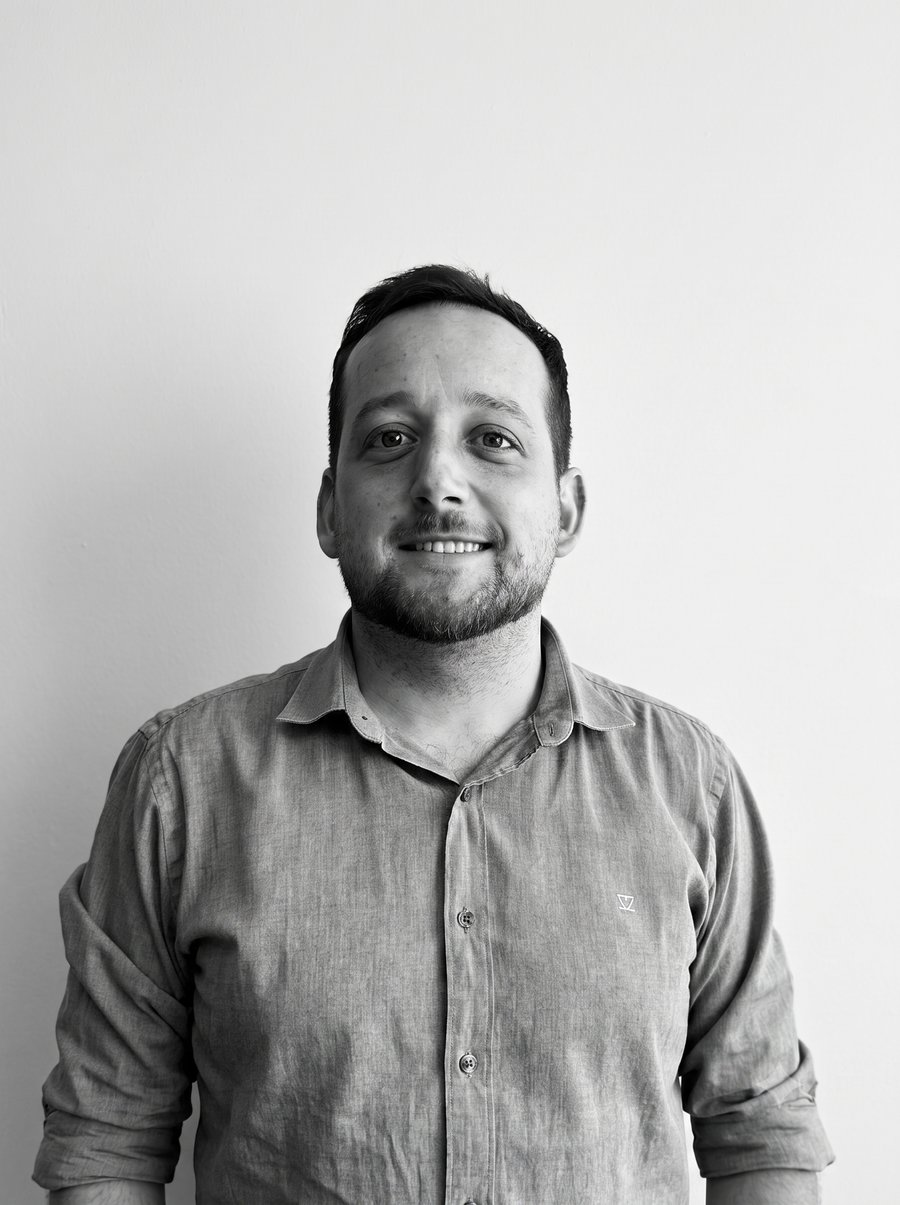
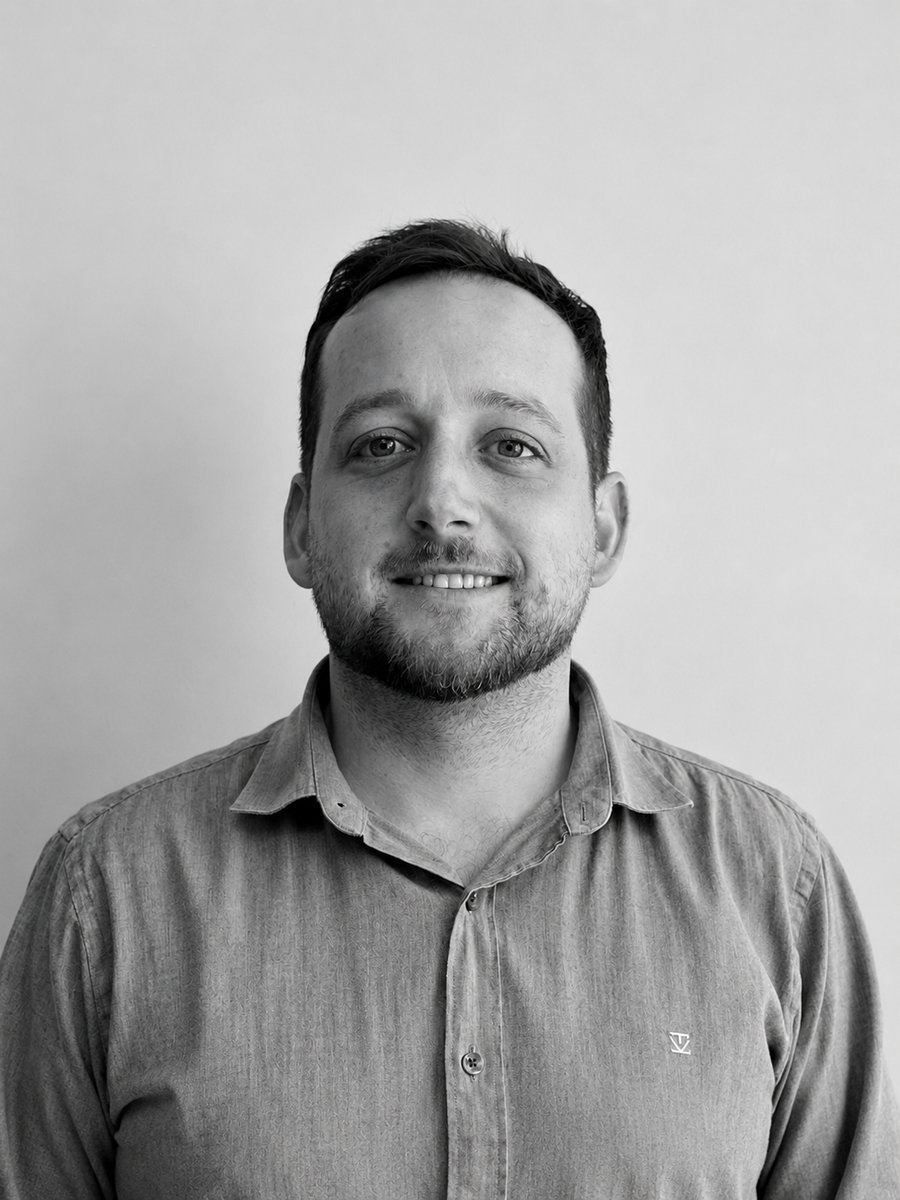
quitar cotizador del menu principal

diff --git a/archivo.html b/archivo.html
@@ -19,7 +19,6 @@
       <a href="index.html">proyectos</a>
       <a href="servicios.html">servicios</a>
       <a href="nosotros.html">nosotros</a>
-      <a href="cotizador.html">cotizador</a>
       <a href="archivo.html" class="active">archivo</a>
     </nav>
     <button class="nav-toggle" id="navToggle" aria-label="Abrir menú" aria-expanded="false"><span></span><span></span><span></span></button>

diff --git a/cotizador.html b/cotizador.html
@@ -25,7 +25,6 @@
       <a href="index.html">proyectos</a>
       <a href="servicios.html">servicios</a>
       <a href="nosotros.html">nosotros</a>
-      <a href="cotizador.html" class="active">cotizador</a>
       <a href="archivo.html">archivo</a>
     </nav>
     <button class="nav-toggle" id="navToggle" aria-label="Abrir menú" aria-expanded="false"><span></span><span></span><span></span></button>

diff --git a/index.html b/index.html
@@ -19,7 +19,6 @@
       <a href="index.html" class="active">proyectos</a>
       <a href="servicios.html">servicios</a>
       <a href="nosotros.html">nosotros</a>
-      <a href="cotizador.html">cotizador</a>
       <a href="archivo.html">archivo</a>
     </nav>
     <button class="nav-toggle" id="navToggle" aria-label="Abrir menú" aria-expanded="false"><span></span><span></span><span></span></button>

diff --git a/nosotros.html b/nosotros.html
@@ -19,7 +19,6 @@
       <a href="index.html">proyectos</a>
       <a href="servicios.html">servicios</a>
       <a href="nosotros.html" class="active">nosotros</a>
-      <a href="cotizador.html">cotizador</a>
       <a href="archivo.html">archivo</a>
     </nav>
     <button class="nav-toggle" id="navToggle" aria-label="Abrir menú" aria-expanded="false"><span></span><span></span><span></span></button>

diff --git a/servicios.html b/servicios.html
@@ -19,7 +19,6 @@
       <a href="index.html">proyectos</a>
       <a href="servicios.html" class="active">servicios</a>
       <a href="nosotros.html">nosotros</a>
-      <a href="cotizador.html">cotizador</a>
       <a href="archivo.html">archivo</a>
     </nav>
     <button class="nav-toggle" id="navToggle" aria-label="Abrir menú" aria-expanded="false"><span></span><span></span><span></span></button>

diff --git a/taller.html b/taller.html
@@ -19,7 +19,6 @@
       <a href="index.html">proyectos</a>
       <a href="servicios.html">servicios</a>
       <a href="nosotros.html">nosotros</a>
-      <a href="cotizador.html">cotizador</a>
       <a href="archivo.html">archivo</a>
     </nav>
     <button class="nav-toggle" id="navToggle" aria-label="Abrir menú" aria-expanded="false"><span></span><span></span><span></span></button>